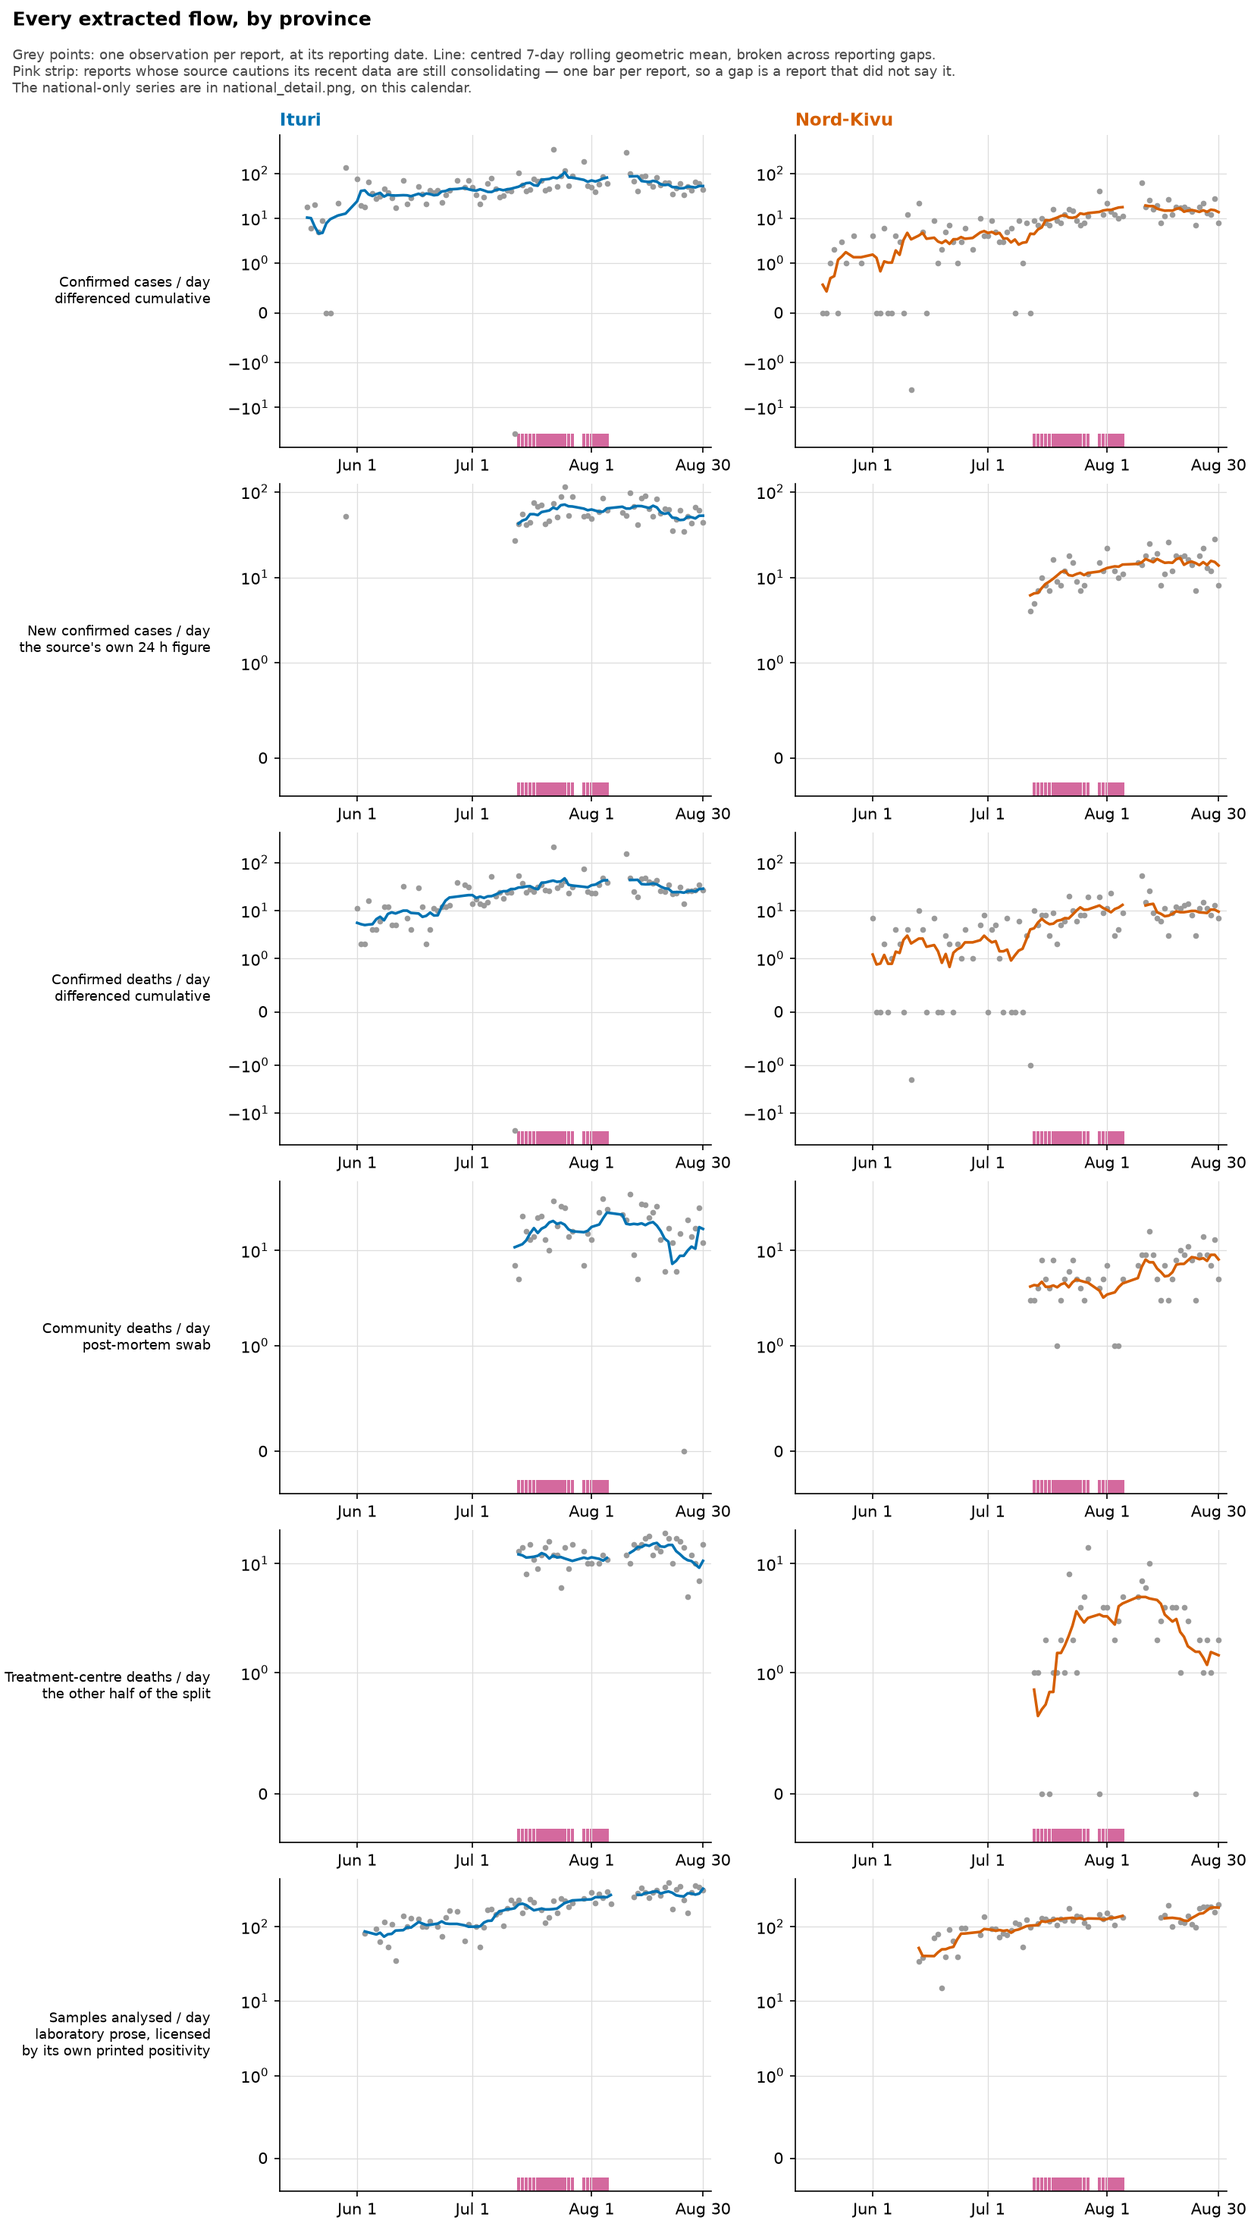
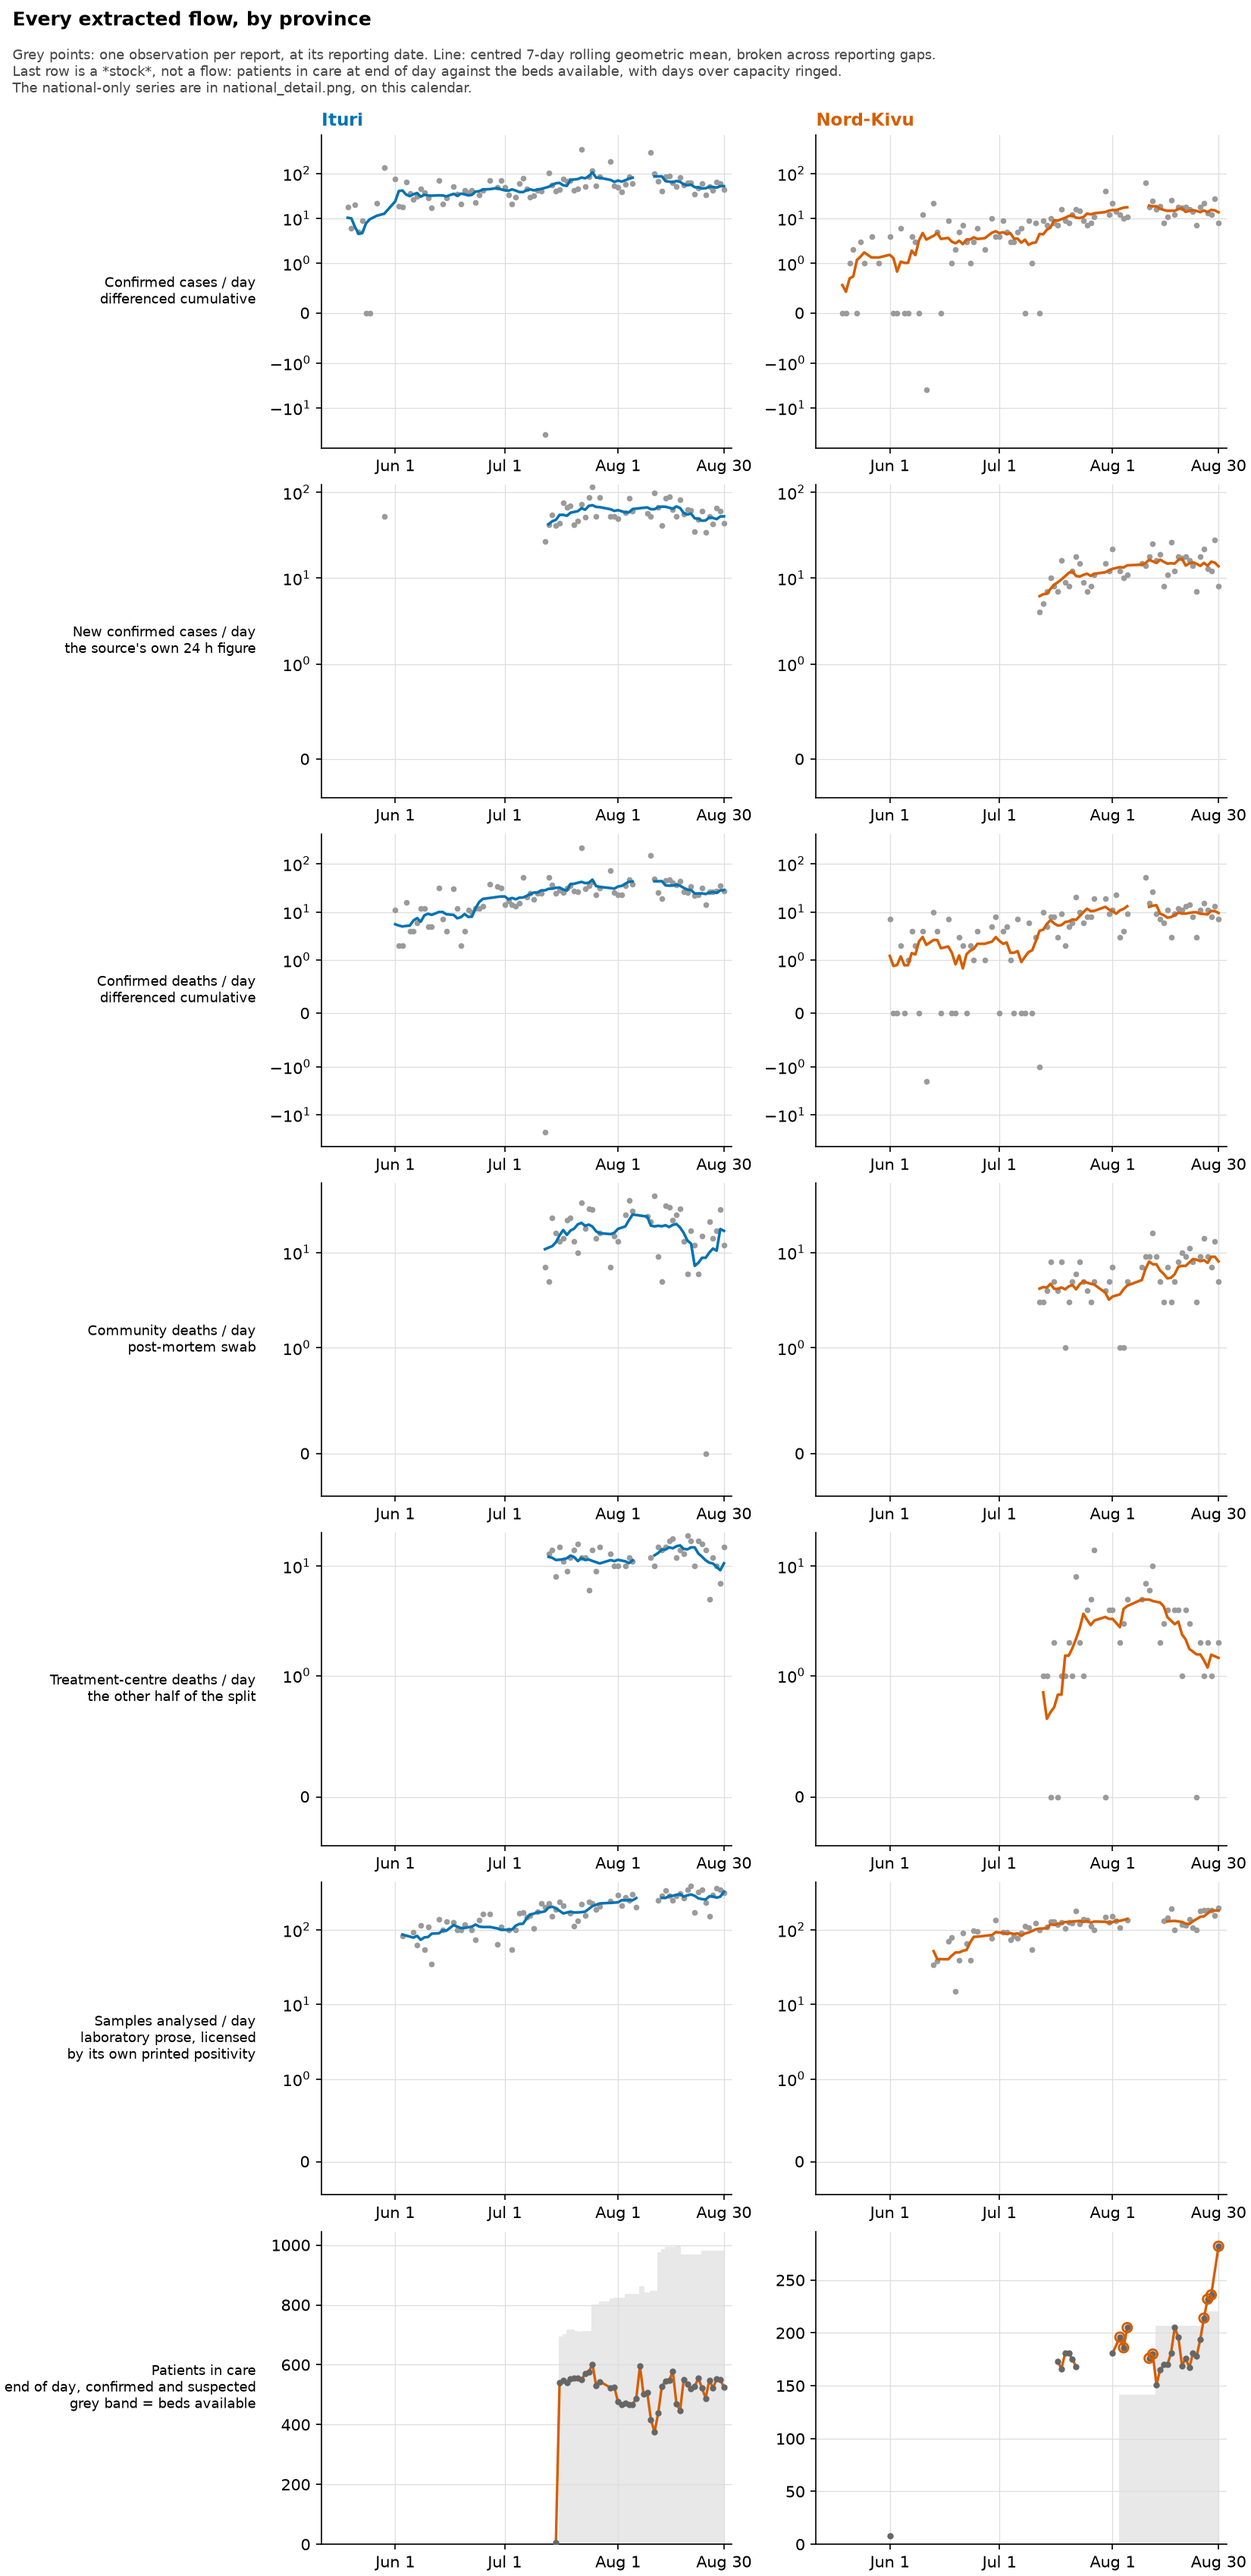
streams_detail: draw the ward the flows drain into, and drop the rug
Adding the census row because the figure was misleading without it. Every row
above it is a flow, and in Nord-Kivu every one is flat or falling through late
August -- cases 21.6 to 15.6/day, deaths 15.1 to 10.3, treatment-centre deaths
4.0 to 1.5 -- while the ward those flows drain into goes 169 patients to 282
and the source writes "sursaturation (128,2 %)". A reader with only the flows
concludes the province is coming under control. Drawn linear against a carried
bed band, with over-capacity days ringed, because the distance to capacity is
the point and a ratio hides it.

Its own y-scale per province, deliberately: Ituri holds ~520 against 978 beds
and Nord-Kivu ~280 against 220, so on a shared axis the province that is over
capacity is a flat line at the bottom.

The consolidation rug is gone. It marked reports whose source cautioned its
recent data were consolidating, which was worth showing while that window was
live; it ended 5 August and a band of pink under every panel now costs more
legibility than the fact is worth. `consolidating` is still a column on every
daily stream.

And the row immediately found a defect, which is the argument for drawing
stocks beside flows. `census_ituri` reads 5 on 2026-07-15 against 541 the next
day. The source says: "L'Ituri concentre l'essentiel des patients (549) ...
tandis que le Nord-Kivu et la Tshopo comptaient respectivement 171 et 5
patients". Our reader assigned *Tshopo's* 5 to Ituri. `checks` is `unchecked` on
[…]

diff --git a/scripts/plot_figures.py b/scripts/plot_figures.py
@@ -1812,9 +1812,20 @@ def _load_panel(inputs: dict[str, Path]):
 def draw_streams_detail(inputs: dict[str, Path], out: Path) -> None:
     """Every flow we extract, by province. Grey points are observations as
     published, one per report at its own reporting date; the line is a centred
-    seven-day rolling geometric mean. The pink strip marks reports whose source
-    cautions its own recent data are still consolidating; a gap in the strip is
-    a report that did not say it.
+    seven-day rolling geometric mean.
+
+    The last row is a stock, not a flow, and it is why the figure needed
+    changing. Every row above it is a flow, and in Nord-Kivu every one of them
+    is flat or falling through late August while the ward those flows drain
+    into goes from 169 patients to 282 and the source writes "sursaturation
+    (128,2 %)". A reader with only the flows concludes the province is coming
+    under control.
+
+    The consolidation rug that used to run under each panel is gone. It marked
+    reports whose source cautioned its recent data were still consolidating,
+    which was worth showing while that window was live; it ended on 5 August,
+    and a band of pink under every panel was costing more legibility than the
+    fact was worth. `consolidating` is still a column on every daily stream.
 
     The four series the source publishes for the country and nowhere else are
     in `national_detail`, on the same calendar. They were once concatenated
@@ -1827,6 +1838,7 @@ def draw_streams_detail(inputs: dict[str, Path], out: Path) -> None:
     panel = _load_panel(inputs)
     caveat = pl.read_csv(inputs["caveat"], infer_schema_length=None)
     lab = pl.read_csv(inputs["lab"], infer_schema_length=None)
+    care = pl.read_csv(inputs["care"], infer_schema_length=20000)
 
     provinces = ["Ituri", "Nord-Kivu"]
     rows = [
@@ -1842,6 +1854,15 @@ def draw_streams_detail(inputs: dict[str, Path], out: Path) -> None:
         # panels.
         ("lab_tests", "Samples analysed / day\nlaboratory prose, licensed\n"
          "by its own printed positivity"),
+        # A stock among flows, and the reason the figure needed it. Every row
+        # above is a flow, and in Nord-Kivu every one of them is flat or
+        # falling through late August while the ward it drains into goes from
+        # 169 patients to 282 and the source writes "sursaturation (128,2 %)".
+        # A reader with only the flows concludes the province is coming under
+        # control. Drawn on a linear axis with the bed count behind it, because
+        # what matters is the distance to capacity, not a ratio.
+        ("census", "Patients in care\nend of day, confirmed and suspected\n"
+         "grey band = beds available"),
     ]
 
     fig = plt.figure(figsize=(11, 3.1 * len(rows) + HEADER_IN),
@@ -1877,6 +1898,56 @@ def draw_streams_detail(inputs: dict[str, Path], out: Path) -> None:
                                    .alias("v")).drop_nulls("v"))
                 xs = [mdates.date2num(x) for x in d["date"].to_list()]
                 ys = d["v"].to_list()
+            elif kind == "census":
+                d = (care.filter((pl.col("province") == prov)
+                                 & pl.col("census").is_not_null())
+                     .select("date", "census", "beds").sort("date"))
+                if d.is_empty():
+                    continue
+                xs = _dates(d["date"])
+                ys = d["census"].to_list()
+                beds = d["beds"].to_list()
+                # The bed count is stated on fewer days than the census, and
+                # it steps rather than drifts, so it is carried forward and
+                # drawn as a band. Where the census leaves the band the ward
+                # is over capacity, which is the one thing to see here.
+                carried, last = [], None
+                for b in beds:
+                    last = b if b is not None else last
+                    carried.append(last)
+                if any(c is not None for c in carried):
+                    ax.fill_between(xs, 0, [c if c else 0 for c in carried],
+                                    step="post", color="#E8E8E8", zorder=0,
+                                    label="beds")
+                # Broken across gaps, as the flow rows are: the census is
+                # stated on 37 of 100 report days in Nord-Kivu, and a line
+                # drawn straight through a three-week silence asserts a
+                # trajectory nobody published.
+                seg_x, seg_y = [], []
+                for i, (x, y) in enumerate(zip(xs, ys)):
+                    if seg_x and x - seg_x[-1] > 4:
+                        ax.plot(seg_x, seg_y, color=color, linewidth=1.6, zorder=3)
+                        seg_x, seg_y = [], []
+                    seg_x.append(x); seg_y.append(y)
+                if seg_x:
+                    ax.plot(seg_x, seg_y, color=color, linewidth=1.6, zorder=3)
+                ax.scatter(xs, ys, s=9, color="#666666", zorder=4)
+                over = [(x, y) for x, y, c in zip(xs, ys, carried)
+                        if c and y > c]
+                if over:
+                    ax.scatter([x for x, _ in over], [y for _, y in over],
+                               s=34, facecolor="none", edgecolor="#D55E00",
+                               linewidth=1.4, zorder=5)
+                ax.set_ylim(bottom=0)
+                ax.grid(True, **GRID)
+                ax.set_axisbelow(True)
+                for sp in ("top", "right"):
+                    ax.spines[sp].set_visible(False)
+                ax.xaxis.set_major_formatter(mdates.DateFormatter("%b %-d"))
+                if ci == 0:
+                    ax.text(-0.16, 0.5, label, transform=ax.transAxes,
+                            ha="right", va="center", fontsize=8.5)
+                continue
             elif kind == "lab_tests":
                 d = (lab.filter(pl.col("province") == prov)
                      .group_by("date").agg(pl.col("samples").sum().alias("v"))
@@ -1907,7 +1978,6 @@ def draw_streams_detail(inputs: dict[str, Path], out: Path) -> None:
                 ax.set_yscale("symlog", linthresh=1)
                 ax.set_ylim(bottom=-0.4)
             ax.grid(True, **GRID)
-            _caveat_rug(ax, caveat)
             for sp in ("top", "right"):
                 ax.spines[sp].set_visible(False)
             ax.xaxis.set_major_formatter(mdates.DateFormatter("%b %-d"))
@@ -1917,7 +1987,11 @@ def draw_streams_detail(inputs: dict[str, Path], out: Path) -> None:
             if ci == 0:
                 ax.text(-0.16, 0.5, label, transform=ax.transAxes,
                         ha="right", va="center", fontsize=8.5)
-        if len(axs) == 2:
+        # Shared y across the two provinces, EXCEPT the census row. Ituri
+        # holds ~520 patients against 978 beds and Nord-Kivu ~280 against 220;
+        # on one scale the province that is over capacity is a flat line at the
+        # bottom, which is the opposite of what the row is for.
+        if len(axs) == 2 and kind != "census":
             lo = min(a.get_ylim()[0] for a in axs)
             hi = max(a.get_ylim()[1] for a in axs)
             for a in axs:
@@ -1937,10 +2011,10 @@ def draw_streams_detail(inputs: dict[str, Path], out: Path) -> None:
     _header(fig, "Every extracted flow, by province",
             "Grey points: one observation per report, at its reporting date. "
             "Line: centred 7-day rolling geometric mean, broken across "
-            "reporting gaps.\nPink strip: reports whose source cautions its "
-            "recent data are still consolidating — one bar per report, so a "
-            "gap is a report that did not say it.\nThe national-only series "
-            "are in national_detail.png, on this calendar.")
+            "reporting gaps.\nLast row is a *stock*, not a flow: patients in "
+            "care at end of day against the beds available, with days over "
+            "capacity ringed.\nThe national-only series are in "
+            "national_detail.png, on this calendar.")
     out.parent.mkdir(parents=True, exist_ok=True)
     fig.savefig(out, dpi=150)
     plt.close(fig)
@@ -4440,7 +4514,8 @@ FIGURES = {
     "streams_detail": (draw_streams_detail,
                        {"zone_table": "data/build/series/zone_table.csv",
                         "caveat": "data/build/series/provisional_caveat.csv",
-                        "lab": "data/build/series/lab_prose.csv"}),
+                        "lab": "data/build/series/lab_prose.csv",
+                        "care": "data/build/series/care_prose.csv"}),
     "national_detail": (draw_national_detail,
                         {"zone_table": "data/build/series/zone_table.csv",
                          "caveat": "data/build/series/provisional_caveat.csv",
